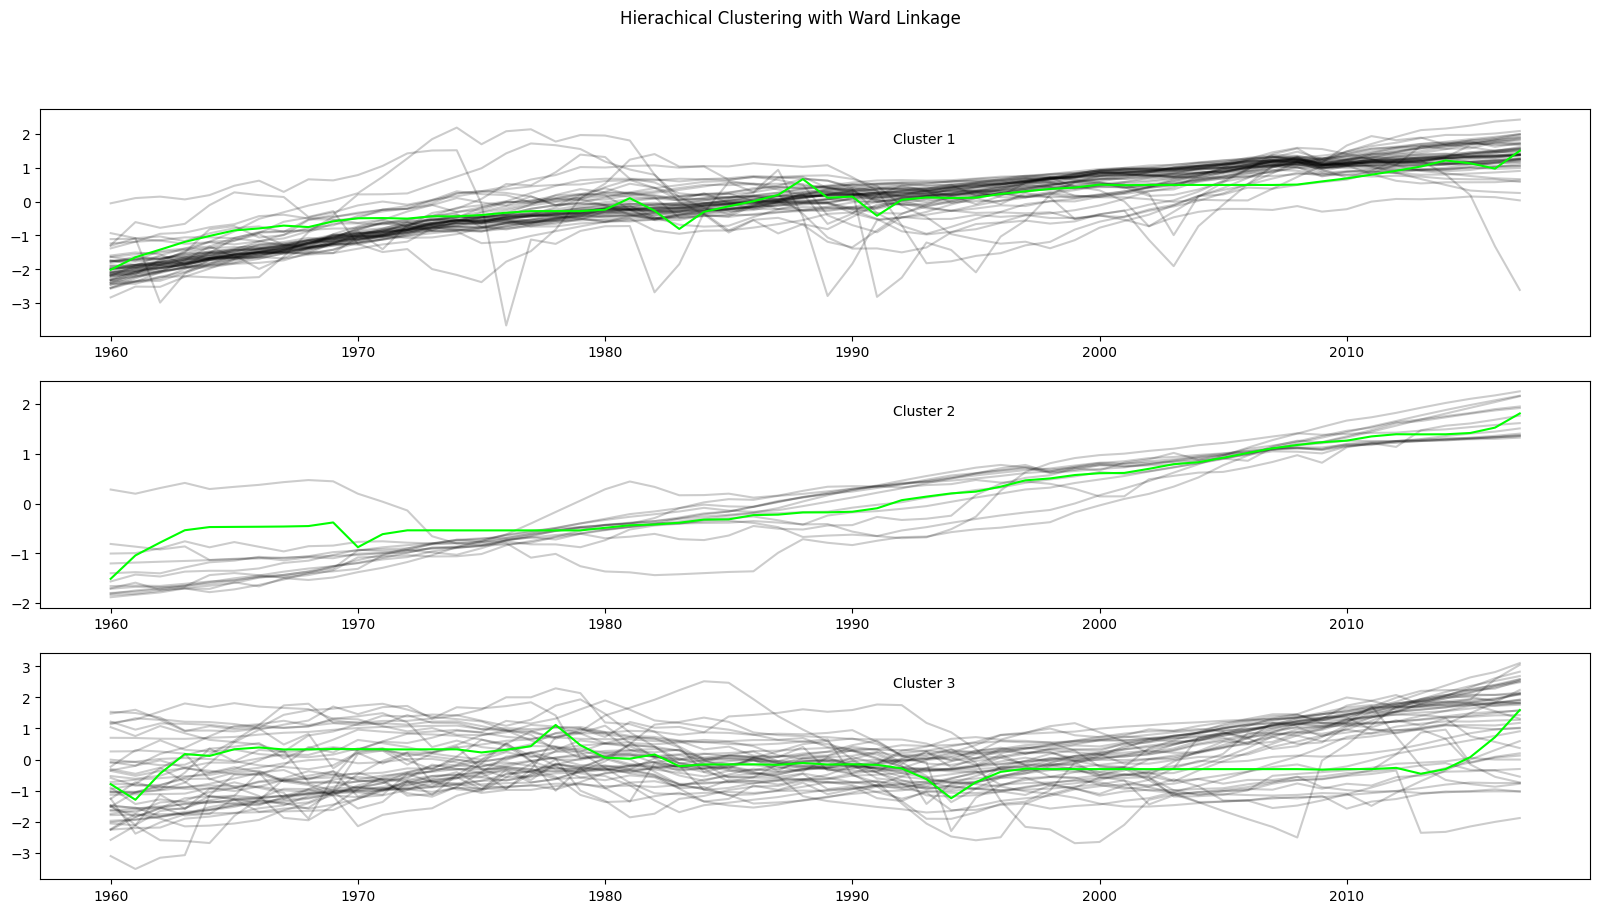
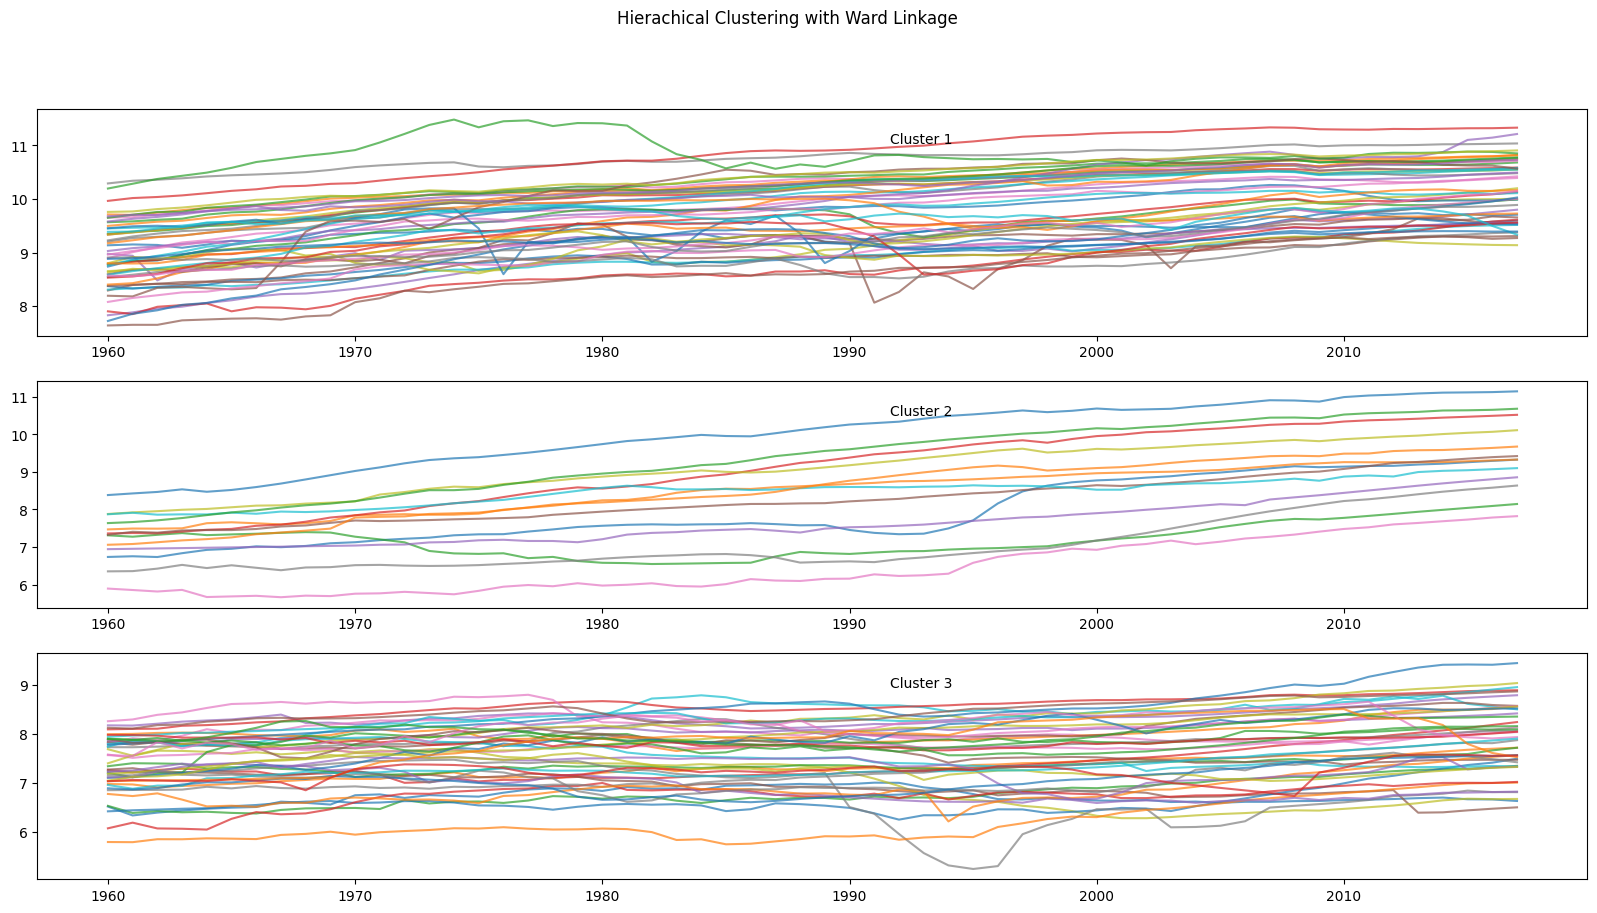
Imaages and Results for Paper

diff --git a/Utils/VisualUtils.py b/Utils/VisualUtils.py
@@ -1,3 +1,4 @@
+from re import M
 import numpy as np
 
 import pandas as pd
@@ -87,7 +88,7 @@ def plot_clusters(
     for yi in range(k):
         plt.subplot(rows, columns, yi+1)
         for xx in data[labels == yi]:
-            plt.plot(time, xx.ravel(), 'k-', alpha=.2)
+            plt.plot(time, xx.ravel(), alpha=.7)
         if cluster_centers is not None:
             plt.plot(time, cluster_centers[yi].ravel(), 'lime')
         plt.text(0.55, 0.85, f'Cluster {yi+1}',
@@ -218,9 +219,9 @@ def show_clusters_on_map(
     df = world.merge(y_frame, how='inner', left_on='ISO_A3_EH', right_on='CODE')
 
     fig, ax = plt.subplots(1,1, figsize=(15,10))
-    fig.patch.set_facecolor('black')
+    fig.patch.set_facecolor('white')
     if title is not None:
-        plt.title(title, color='white')
+        plt.title(title, color='black')
     
     df.plot(column='LABEL', ax=ax)
     ax.axis('off')
@@ -429,6 +430,115 @@ def plot_many_predictions(
             baseline=baseline,
             ax=ax,
             title=titles[i],
+            show_legend=False
+        )
+    
+    handles, labels = [], []
+    ax = ax_list[0]
+    for handle, label in zip(*ax.get_legend_handles_labels()):
+        handles.append(handle)
+        labels.append(label)
+
+    fig.legend(handles, labels, loc='lower center', ncol=6, fontsize=10)
+
+    fig.suptitle(country, fontsize=16, weight='bold')
+    plt.tight_layout(rect=[0,0.05,1,0.92])
+    plt.show()
+
+def plot_predictions_both_intervals(
+        data_train: pd.Series,
+        data_test: pd.Series,
+        country: str,
+        oos_predictions67: pd.DataFrame,
+        oos_predictions90: pd.DataFrame,
+        ax = None,
+        title: str = None,
+        show_legend: bool = True
+    ):
+    """
+    Plots the probabilistic forecast for a given country
+
+    Parameters:
+        data_train (pd.Series): The training part of the GDP time series
+        data_test (pd.Series): The testing_part of the GDP time series
+        country (str): The name of the country
+        oos_predictions67 (pd.DataFrame): The out-of-sample (horizon)  67% prediction intervals
+        oos_predictions67 (pd.DataFrame): The out-of-sample (horizon)  90% prediction intervals
+        ax: The object to be used for plotting
+        title (str): The title of the plot; if none, the name of the country
+        show_legend (bool): Whether or not to display a legend alongside the plot.
+    """
+    if ax is None:
+        fig, ax = plt.subplots(figsize=(10, 5))
+
+    if title is None:
+        ax.set_title(country)
+    else:
+        ax.set_title(title)
+
+    data_train.plot(ax=ax, label='Train', color='black')
+    data_test.plot(ax=ax, label="Test", color='g')
+
+    oos_predictions67['median'].plot(ax=ax, color='r', label='_nonlegend_')
+    oos_predictions67['mean'].plot(ax=ax, color='blueviolet', label='_nonlegend_')
+    
+    ax.fill_between(
+        oos_predictions67.index,
+        oos_predictions67['lower_bound'],
+        oos_predictions67['upper_bound'],
+        color = 'coral',
+        alpha = 0.8,
+        label = f'67% interval (horizon)'
+    )
+
+    ax.fill_between(
+        oos_predictions90.index,
+        oos_predictions90['lower_bound'],
+        oos_predictions90['upper_bound'],
+        color = 'coral',
+        alpha = 0.3,
+        label = f'90% interval (horizon)'
+    )
+
+
+    if show_legend:
+        ax.legend()
+
+def plot_many_predictions_both_intervals(
+        data_train: pd.DataFrame,
+        data_test: pd.DataFrame,
+        country: str,
+        oos_predictions67: list[pd.DataFrame],
+        oos_predictions90: list[pd.DataFrame],
+        titles: list[str],
+        rows: int,
+        columns: int
+    ):
+    """
+    Plots multiple predictions for the same country
+
+    Parameters:
+        data_train (pd.Series): The training part of the GDP time series
+        data_test (pd.Series): The testing_part of the GDP time series
+        country (str): The name of the country
+        oos_predictions67 (list[pd.DataFrame]): The out-of-sample (horizon) 67% prediction intervals
+        oos_predictions90 (list[pd.DataFrame]): The out-of-sample (horizon) 90% prediction intervals
+        titles (list[str]): The titles of each of the subplots
+        rows (int): The number of rows of plots
+        columns (int): The number of columns of plots    
+    """
+    fig, axs = plt.subplots(rows, columns, figsize=(12,8))
+
+    ax_list = axs.flatten()
+    for i, ax in enumerate(ax_list):
+        plot_predictions_both_intervals(
+            data_train=data_train,
+            data_test=data_test,
+            country=country,
+            oos_predictions67=oos_predictions67[i],
+            oos_predictions90=oos_predictions90[i],
+            ax=ax,
+            title = titles[i],
             show_legend=False
         )
     

diff --git a/Utils/ForecastingUtils.py b/Utils/ForecastingUtils.py
@@ -127,7 +127,7 @@ def calculate_metrics(
     median_loss = pinball_loss(y, test_preds['median'].values, 0.5)
 
     idx = [
-        'Probability Coverage', 
+        f'Probability Coverage {upper_bound-lower_bound}%', 
         f'Pinball Loss for {lower_bound}th Quantile',
         f'Pinball Loss for Median',
         f'Pinball Loss for {upper_bound}th Quantile'
